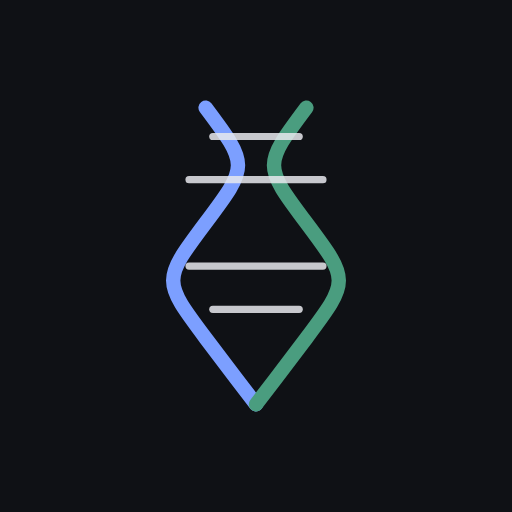
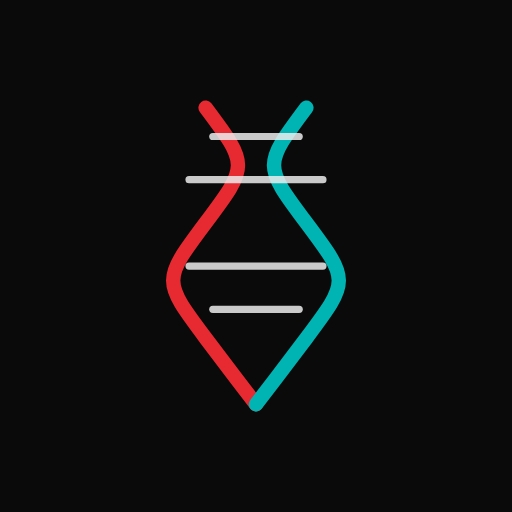
Match branding to artiflix.com: near-black theme, red/teal accents
Palette pulled from artiflix.com's own bundle: background to near-black
(#0a0a0a, close to their #000000), primary accent to their red (#E72A31),
plus a teal secondary accent (#01B4B4) used sparingly (the novelty-pick
note) so the UI doesn't read as all-red. The color variables themselves
landed in the previous two commits since they touched the same files;
this one carries the remaining assets — regenerated PWA icons/favicon in
the new colors, and manifest/theme-color to match.

Changed region(s): [[0.3125, 0.1875, 0.6875, 0.8125]]

diff --git a/version.js b/version.js
@@ -11,4 +11,4 @@
 // A plain script (not a module) so it loads identically via <script src>
 // on the page and via importScripts() inside the service worker — `self`
 // is the shared global in both contexts.
-self.APP_VERSION = '2026.08.27.2';
+self.APP_VERSION = '2026.08.27.3';
